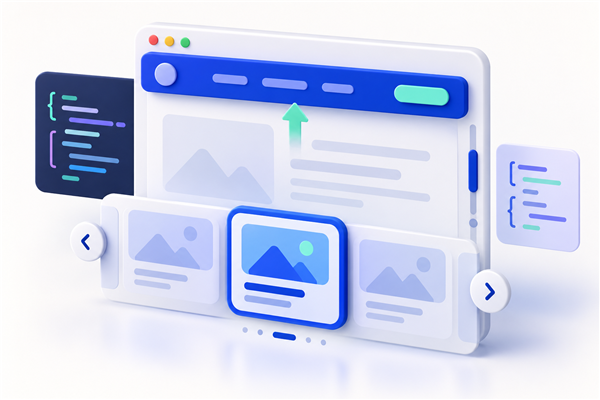
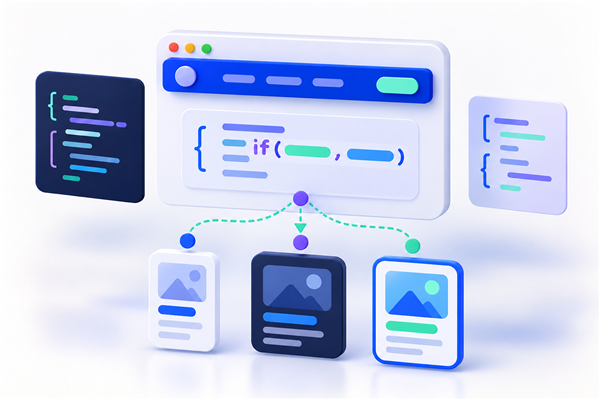
10월 뉴스레터 업데이트: 이미지 링크 수정 및 SVG 파일 교체

diff --git a/html/newsletter/010-mail.html b/html/newsletter/010-mail.html
@@ -34,7 +34,7 @@
                     <!-- 헤더 배너 -->
                     <tr>
                         <td align="left" style="padding:18px 0 12px;">
-                            <img src="../../resources/image/newsletter/logo-transparent.png"
+                            <img src="https://wtnflhyodwsemszwhjrs.supabase.co/storage/v1/object/public/images/logo-transparent.png"
                                 width="520" alt="Code Insight"
                                 style="display:block; width:100%; max-width:520px; height:auto; border:0; outline:none; text-decoration:none;" />
                         </td>
@@ -58,7 +58,7 @@
                                     <td style="padding:0 0 24px;">
                                         <p style="margin:0; font-size:14px; line-height:1.6; color:#222;">
                                             상태를 감지하고, 요소의 위치를 계산하고, 스크롤에 맞춰 애니메이션을 재생하던 코드가 점점 CSS로 옮겨가고 있습니다.<br />
-                                            이번 달에는 JavaScript 의존도를 줄여 주는 CSS 기능 9가지를 실무 활용 관점에서 살펴봅니다.
+                                            이번 달에는 JavaScript 의존도를 줄여 주는 CSS 기능 8가지를 실무 활용 관점에서 살펴봅니다.
                                         </p>
                                     </td>
                                 </tr>
@@ -75,8 +75,8 @@
                                             target="_blank" rel="noopener noreferrer"
                                             style="display:block; margin:0 0 10px;">
 
-                                            <img src="../../resources/image/newsletter/10/001.png" width="200"
-                                                alt=":has() 선택자로 자식 상태에 반응하는 카드"
+                                            <img src="https://wtnflhyodwsemszwhjrs.supabase.co/storage/v1/object/public/images/2026/10/001.png"
+                                                width="200" alt=":has() 선택자로 자식 상태에 반응하는 카드"
                                                 style="display:block; width:100%; height:auto; border:0; border-radius:6px;" />
                                         </a>
                                         <div
@@ -85,8 +85,8 @@
                                         <h3 style="margin:0 0 8px; font-size:14px; line-height:1.5; font-weight:700;">
                                             <a href="https://developer.mozilla.org/en-US/docs/Web/CSS/Reference/Selectors/:has"
                                                 target="_blank" rel="noopener noreferrer"
-                                                style="color:#0b3cc1; text-decoration:underline;">부모 찾기와 상태 반영은
-                                                :has()</a>
+                                                style="color:#0b3cc1; text-decoration:underline;">자식 상태에 따른 부모 스타일링은
+                                                :has()로</a>
                                         </h3>
                                         <p style="margin:0; font-size:13px; line-height:1.7; color:#444;">자식 요소의 상태에 따라
                                             부모나 앞선 형제를
@@ -97,8 +97,8 @@
                                         <a href="https://developer.mozilla.org/en-US/docs/Web/CSS/Guides/Containment/Container_queries"
                                             target="_blank" rel="noopener noreferrer"
                                             style="display:block; margin:0 0 10px;">
-                                            <img src="../../resources/image/newsletter/10/002.png" width="200"
-                                                alt="컨테이너 크기에 따라 변하는 반응형 카드"
+                                            <img src="https://wtnflhyodwsemszwhjrs.supabase.co/storage/v1/object/public/images/2026/10/002.png"
+                                                width="200" alt="컨테이너 크기에 따라 변하는 반응형 카드"
                                                 style="display:block; width:100%; height:auto; border:0; border-radius:6px;" />
                                         </a>
                                         <div
@@ -118,8 +118,8 @@
                                         <a href="https://developer.mozilla.org/en-US/docs/Web/CSS/Guides/Anchor_positioning/Using"
                                             target="_blank" rel="noopener noreferrer"
                                             style="display:block; margin:0 0 10px;">
-                                            <img src="../../resources/image/newsletter/10/004.png" width="200"
-                                                alt="버튼을 기준으로 배치된 여러 팝오버"
+                                            <img src="https://wtnflhyodwsemszwhjrs.supabase.co/storage/v1/object/public/images/2026/10/004.png"
+                                                width="200" alt="버튼을 기준으로 배치된 여러 팝오버"
                                                 style="display:block; width:100%; height:auto; border:0; border-radius:6px;" />
                                         </a>
                                         <div
@@ -140,8 +140,8 @@
                                         <a href="https://developer.mozilla.org/en-US/docs/Web/CSS/Guides/Scroll-driven_animations"
                                             target="_blank" rel="noopener noreferrer"
                                             style="display:block; margin:0 0 10px;">
-                                            <img src="../../resources/image/newsletter/10/005.png" width="200"
-                                                alt="스크롤 진행률과 연결된 애니메이션"
+                                            <img src="https://wtnflhyodwsemszwhjrs.supabase.co/storage/v1/object/public/images/2026/10/005.png"
+                                                width="200" alt="스크롤 진행률과 연결된 애니메이션"
                                                 style="display:block; width:100%; height:auto; border:0; border-radius:6px;" />
                                         </a>
                                         <div
@@ -166,33 +166,32 @@
                                 <tr>
                                     <td valign="top" width="25%"
                                         style="padding:0 10px 28px 0; overflow-wrap:break-word;">
-                                        <a href="https://developer.chrome.com/blog/css-scroll-state-queries"
-                                            target="_blank" rel="noopener noreferrer"
-                                            style="display:block; margin:0 0 10px;">
-                                            <img src="../../resources/image/newsletter/10/006.png" width="200"
-                                                alt="고정 헤더와 스냅된 캐러셀 카드"
+                                        <a href="https://developer.chrome.com/blog/if-article" target="_blank"
+                                            rel="noopener noreferrer" style="display:block; margin:0 0 10px;">
+                                            <img src="https://wtnflhyodwsemszwhjrs.supabase.co/storage/v1/object/public/images/2026/10/006.png"
+                                                width="200" alt="조건에 따라 세 가지 스타일 결과로 나뉘는 카드"
                                                 style="display:block; width:100%; height:auto; border:0; border-radius:6px;" />
                                         </a>
                                         <div
                                             style="font-size:10px; line-height:1.5; letter-spacing:0.3px; color:#555; margin:0 0 6px;">
-                                            SCROLL-STATE QUERY · 지원 확인</div>
+                                            CSS IF() · CHROME 137+</div>
                                         <h3 style="margin:0 0 8px; font-size:14px; line-height:1.5; font-weight:700;">
-                                            <a href="https://developer.chrome.com/blog/css-scroll-state-queries"
-                                                target="_blank" rel="noopener noreferrer"
-                                                style="color:#0b3cc1; text-decoration:underline;">sticky 상태와 스냅 위치
-                                                감지하기</a>
+                                            <a href="https://developer.chrome.com/blog/if-article" target="_blank"
+                                                rel="noopener noreferrer"
+                                                style="color:#0b3cc1; text-decoration:underline;">조건에 따른 스타일 값을
+                                                CSS 안에서 선택하기</a>
                                         </h3>
                                         <p style="margin:0; font-size:13px; line-height:1.7; color:#444;">
-                                            IntersectionObserver나 스크롤 위치 비교 없이
-                                            붙어 있는 헤더와 스냅된 항목을 선택합니다. 캐러셀의 현재 카드나 고정 헤더의 그림자를 CSS만으로 표현할 수 있습니다.</p>
+                                            CSS if()로 미디어 조건·기능 지원 여부·스타일 조건에 따라 속성 값을 선택합니다.
+                                            조건별 클래스를 JavaScript로 붙이거나 동일한 선언을 여러 규칙으로 나누는 코드를 줄일 수 있습니다.</p>
                                     </td>
                                     <td valign="top" width="25%"
                                         style="padding:0 10px 28px 0; overflow-wrap:break-word;">
                                         <a href="https://developer.mozilla.org/en-US/docs/Web/CSS/Reference/At-rules/%40starting-style"
                                             target="_blank" rel="noopener noreferrer"
                                             style="display:block; margin:0 0 10px;">
-                                            <img src="../../resources/image/newsletter/10/007.png" width="200"
-                                                alt="숨김 상태에서 나타나는 대화상자 전환"
+                                            <img src="https://wtnflhyodwsemszwhjrs.supabase.co/storage/v1/object/public/images/2026/10/007.png"
+                                                width="200" alt="숨김 상태에서 나타나는 대화상자 전환"
                                                 style="display:block; width:100%; height:auto; border:0; border-radius:6px;" />
                                         </a>
                                         <div
@@ -206,38 +205,39 @@
                                         </h3>
                                         <p style="margin:0; font-size:13px; line-height:1.7; color:#444;">
                                             @starting-style과
-                                            transition-behavior: allow-discrete를 조합해 팝오버와 dialog의 등장·퇴장 효과를 만듭니다. 애니메이션용
+                                            transition-behavior: allow-discrete를 조합해 팝오버와 &lt;dialog&gt;의 등장·퇴장 효과를 만듭니다. 애니메이션용
                                             클래스를 넣고 빼는 코드를 줄여 줍니다.</p>
                                     </td>
                                     <td valign="top" width="25%"
                                         style="padding:0 10px 28px 0; overflow-wrap:break-word;">
-                                        <a href="https://developer.chrome.com/docs/css-ui/animate-to-height-auto"
+                                        <a href="https://developer.mozilla.org/en-US/docs/Web/CSS/Reference/Properties/field-sizing"
                                             target="_blank" rel="noopener noreferrer"
                                             style="display:block; margin:0 0 10px;">
-                                            <img src="../../resources/image/newsletter/10/008.png" width="200"
-                                                alt="콘텐츠 높이에 맞춰 펼쳐지는 아코디언"
+                                            <img src="https://wtnflhyodwsemszwhjrs.supabase.co/storage/v1/object/public/images/2026/10/008.png"
+                                                width="200" alt="입력 내용에 맞춰 크기가 달라지는 입력 필드와 텍스트 영역"
                                                 style="display:block; width:100%; height:auto; border:0; border-radius:6px;" />
                                         </a>
                                         <div
                                             style="font-size:10px; line-height:1.5; letter-spacing:0.3px; color:#555; margin:0 0 6px;">
-                                            INTERPOLATE-SIZE · 지원 확인</div>
+                                            FIELD-SIZING · BASELINE 2026</div>
                                         <h3 style="margin:0 0 8px; font-size:14px; line-height:1.5; font-weight:700;">
-                                            <a href="https://developer.chrome.com/docs/css-ui/animate-to-height-auto"
+                                            <a href="https://developer.mozilla.org/en-US/docs/Web/CSS/Reference/Properties/field-sizing"
                                                 target="_blank" rel="noopener noreferrer"
-                                                style="color:#0b3cc1; text-decoration:underline;">height: auto 전환도
-                                                CSS로</a>
+                                                style="color:#0b3cc1; text-decoration:underline;">입력 내용에 맞춰 자동으로
+                                                커지는 폼 필드</a>
                                         </h3>
-                                        <p style="margin:0; font-size:13px; line-height:1.7; color:#444;">콘텐츠 높이를 측정해 픽셀
-                                            값으로 넣는 대신
-                                            interpolate-size: allow-keywords 또는 calc-size()로 auto 크기를 전환합니다. 아코디언과 펼침
-                                            패널에 활용해 보세요.</p>
+                                        <p style="margin:0; font-size:13px; line-height:1.7; color:#444;">textarea의
+                                            scrollHeight를
+                                            측정하지 않아도
+                                            field-sizing: content로 입력 내용에 맞춰 폼 필드 크기를 조절합니다. min-width와 max-width로
+                                            크기 범위도 제한할 수 있습니다.</p>
                                     </td>
                                     <td valign="top" width="25%"
                                         style="padding:0 10px 28px 0; overflow-wrap:break-word;">
                                         <a href="https://developer.chrome.com/blog/carousels-with-css" target="_blank"
                                             rel="noopener noreferrer" style="display:block; margin:0 0 10px;">
-                                            <img src="../../resources/image/newsletter/10/009.png" width="200"
-                                                alt="탐색 버튼과 인디케이터가 있는 CSS 캐러셀"
+                                            <img src="https://wtnflhyodwsemszwhjrs.supabase.co/storage/v1/object/public/images/2026/10/009.png"
+                                                width="200" alt="탐색 버튼과 인디케이터가 있는 CSS 캐러셀"
                                                 style="display:block; width:100%; height:auto; border:0; border-radius:6px;" />
                                         </a>
                                         <div
@@ -285,19 +285,6 @@
                                             <tr>
                                                 <td style="padding:16px 0 0;">
                                                     <h3 style="margin:0 0 4px; font-size:14px; font-weight:700;">
-                                                        <a href="https://chrome.dev/view-transitions-toolkit/"
-                                                            target="_blank" rel="noopener noreferrer"
-                                                            style="color:#0b3cc1; text-decoration:underline;">View
-                                                            Transitions Toolkit</a>
-                                                    </h3>
-                                                    <p style="margin:0; font-size:13px; color:#444;">
-                                                        View Transition 적용을 단순화하는 유틸리티와 예제를 모아 화면 전환 구현을 돕는 도구 모음
-                                                    </p>
-                                                </td>
-                                            </tr>
-                                            <tr>
-                                                <td style="padding:16px 0 0;">
-                                                    <h3 style="margin:0 0 4px; font-size:14px; font-weight:700;">
                                                         <a href="https://calendarjs.com/" target="_blank"
                                                             rel="noopener noreferrer"
                                                             style="color:#0b3cc1; text-decoration:underline;">CalendarJS</a>
@@ -328,7 +315,7 @@
                                                             Hotkeys</a>
                                                     </h3>
                                                     <p style="margin:0; font-size:13px; color:#444;">
-                                                        키 조합과 연속 입력, 키 상태 추적, 단축키 기록을 지원하며 React 등과 연결할 수 있는 타입 안전 단축키
+                                                        키 조합과 연속 입력, 키 상태 추적, 단축키 기록을 지원하며 React 등과 연결할 수 있는 타입 안전성을 갖춘 단축키
                                                         라이브러리
                                                     </p>
                                                 </td>
@@ -399,7 +386,8 @@
                                                         style="margin:0 0 5px; font-size:14px; line-height:1.5; font-weight:700;">
                                                         <a href="https://codepen.io/t_afif/pen/JoKYwXO" target="_blank"
                                                             rel="noopener noreferrer"
-                                                            style="color:#0b3cc1; text-decoration:underline;">CSS-only Mario World
+                                                            style="color:#0b3cc1; text-decoration:underline;">CSS-only
+                                                            Mario World
                                                         </a>
                                                     </h3>
                                                     <p style="margin:0; font-size:13px; line-height:1.7; color:#444;">
@@ -454,7 +442,7 @@
                                             width="100%" style="border-collapse:collapse;">
                                             <tr>
                                                 <td valign="top" style="width:35px; padding-right:12px;">
-                                                    <img src="../../resources/image/newsletter/logo-react.png"
+                                                    <img src="https://wtnflhyodwsemszwhjrs.supabase.co/storage/v1/object/public/images/logo-react.png"
                                                         alt="React"
                                                         style="display:block; width:35px; height:auto; border:0;" />
                                                 </td>
@@ -463,7 +451,7 @@
                                                         style="margin:0 0 4px; font-size:14px; font-weight:700; color:#222;">
                                                         React 코드 추천</p>
                                                     <p style="margin:0; font-size:12px; line-height:1.6; color:#555;">
-                                                        화면 전환과 폼처럼 퍼블리싱 작업에 바로 연결되는 React 구현을 골랐습니다.
+                                                        화면 전환과 폼 등 퍼블리싱 작업에 바로 연결되는 React 구현을 골랐습니다.
                                                     </p>
                                                 </td>
                                             </tr>
@@ -484,7 +472,7 @@
                                                     <p style="margin:0; font-size:13px; line-height:1.7; color:#444;">
                                                         컴포넌트의 등장·퇴장·업데이트를 브라우저 View Transition과 연결합니다. React가 전환 시점과 이름을
                                                         조율하므로,
-                                                        페이지 이동이나 목록 변화에 CSS 전환 클래스를 적용하는 구조를 단순하게 만들 수 있습니다.
+                                                        페이지 이동이나 목록 변화에 CSS 전환 스타일을 구성하는 구조를 단순하게 만들 수 있습니다.
                                                     </p>
                                                 </td>
                                             </tr>
@@ -577,14 +565,16 @@
                                         <div style="font-size:13px; line-height:1.7; color:#333;">
                                             <p style="margin:0 0 18px;">
                                                 이번에는 SVG 작업에 활용할 수 있는 도구와 자료를 소개하려고 합니다.
-                                                SVG는 아이콘이나 로고에 자주 사용하는 이미지 형식이지만, 글자가 타이핑되거나 손으로 그린 선이
-                                                움직이는 효과도 표현할 수 있습니다. 작은 기능 하나를 편리하게 만들어 공개한 도구들을 보면,
-                                                평소 직접 구현하기에는 조금 번거로웠던 작업을 줄이는 데 도움이 되겠다는 생각이 듭니다.
+                                                SVG는 아이콘이나 로고에 자주 사용하는 벡터 이미지 형식이지만, 글자가 타이핑되거나 손으로 그린 선이
+                                                움직이는 효과도 표현할 수 있습니다. 번거로운 작업을 간단하게 만들어 주는 공개 도구들은
+                                                직접 구현해야 할 작업을 줄이는 데 도움이 됩니다.
                                             </p>
 
-                                            <h4 style="margin:0 0 8px; font-size:14px; font-weight:700; color:#222;">텍스트를 입력하면 타이핑 애니메이션으로</h4>
+                                            <h4 style="margin:0 0 8px; font-size:14px; font-weight:700; color:#222;">
+                                                텍스트를 입력하면 타이핑 애니메이션으로</h4>
                                             <p style="margin:0 0 12px;">
-                                                <a href="https://typingsvg.vercel.app/" target="_blank" rel="noopener noreferrer"
+                                                <a href="https://typingsvg.vercel.app/" target="_blank"
+                                                    rel="noopener noreferrer"
                                                     style="color:#0b3cc1; text-decoration:underline;">TypingSVG</a>는
                                                 텍스트와 옵션을 입력하면 타이핑 애니메이션이 들어간 SVG를 만들어 주는 도구입니다.
                                                 여러 줄의 문장, 커서 모양, 글자가 지워지는 속도 등을 조절할 수 있어 소개 문구에 움직임을 더할 때 참고하기 좋습니다.
@@ -592,15 +582,18 @@
                                             <p style="margin:0 0 18px;">
                                                 이렇게 SVG 자체에 포함된 애니메이션은 웹페이지에서 <code>&lt;img&gt;</code>로 불러와도 표현할 수 있습니다.
                                                 타이핑 효과를 위해 페이지에 별도의 스크립트를 작성하지 않아도 된다는 점이 편리합니다.
-                                                다만 외부 생성 주소를 그대로 사용할지, 파일로 저장해 프로젝트에서 관리할지는 구분해서 생각해야 합니다.
+                                                다만 생성된 외부 URL을 그대로 사용할지, 파일로 저장해 프로젝트에서 관리할지는 구분해서 생각해야 합니다.
                                             </p>
 
-                                            <h4 style="margin:0 0 8px; font-size:14px; font-weight:700; color:#222;">손으로 그린 선과 낙서를 화면의 요소로</h4>
+                                            <h4 style="margin:0 0 8px; font-size:14px; font-weight:700; color:#222;">손으로
+                                                그린 선과 낙서를 화면의 요소로</h4>
                                             <p style="margin:0 0 12px;">
                                                 <a href="https://go.sparkpostmail2.com/f/a/NxoK8u_zzXtPg8oURe7-DQ~~/AABEfhA~/dQdxusMK-pLk-8McvhHW5bcOziPo4zc89mDAzQPrZloxeIfOFWEA1eva4N7rvnnuLRDuu80yUwpkRYecRaDcb0arkkSdJ56GoMMzqaK3X8k~"
-                                                    target="_blank" rel="noopener noreferrer" style="color:#0b3cc1; text-decoration:underline;">Strokes</a>는
+                                                    target="_blank" rel="noopener noreferrer"
+                                                    style="color:#0b3cc1; text-decoration:underline;">Strokes</a>는
                                                 직접 그린 선을 애니메이션으로 바꿔 주는 도구입니다. 서명이나 손글씨가 그려지는 듯한 효과를 떠올리면 이해하기 쉽습니다.
-                                                소개된 애니메이션 출력 방식은 React와 Motion을 사용하는 컴포넌트이므로, SVG 파일 하나를 넣는 방식과는 준비 과정이 다릅니다.
+                                                소개된 애니메이션 출력 방식은 React와 Motion을 사용하는 컴포넌트이므로, SVG 파일 하나를 넣는 방식과는 준비 과정이
+                                                다릅니다.
                                             </p>
                                             <p style="margin:0 0 12px;">
                                                 React와 Motion을 이미 사용하는 프로젝트라면 활용하기 수월하겠지만, 간단한 HTML 화면이라면
@@ -609,13 +602,16 @@
                                             </p>
                                             <p style="margin:0 0 18px;">
                                                 직접 그리는 대신 준비된 요소를 활용하고 싶다면
-                                                <a href="https://svgdoodles.com/" target="_blank" rel="noopener noreferrer"
-                                                    style="color:#0b3cc1; text-decoration:underline;">SVG Doodles</a>도 살펴볼 만합니다.
+                                                <a href="https://svgdoodles.com/" target="_blank"
+                                                    rel="noopener noreferrer"
+                                                    style="color:#0b3cc1; text-decoration:underline;">SVG Doodles</a>도
+                                                살펴볼 만합니다.
                                                 손으로 그린 느낌의 SVG를 골라 디자인에 활용할 수 있는 모음입니다.
                                                 화면에 작은 포인트를 더할 때 유용하겠지만, 기존 아이콘이나 글꼴과 자연스럽게 어울리는지도 함께 보는 것이 좋겠습니다.
                                             </p>
 
-                                            <h4 style="margin:0 0 8px; font-size:14px; font-weight:700; color:#222;">같은 SVG라도 넣는 방식에 따라 달라집니다</h4>
+                                            <h4 style="margin:0 0 8px; font-size:14px; font-weight:700; color:#222;">같은
+                                                SVG라도 넣는 방식에 따라 달라집니다</h4>
                                             <p style="margin:0 0 12px;">
                                                 SVG는 이미지 파일로 불러올 수도 있고, HTML 안에 코드를 직접 넣거나 CSS의
                                                 <code>background-image</code>에 데이터 URL로 넣을 수도 있습니다.
@@ -628,14 +624,19 @@
                                                 대체 텍스트를 제공하고, 단순한 배경 장식이라면 본문을 읽는 데 방해가 되지 않도록 구성하는 식입니다.
                                                 관련 내용은 David Bushell의
                                                 <a href="https://go.sparkpostmail2.com/f/a/pp9Hl0wt_73q5M9Nd3Wifg~~/AABEfhA~/0Q9VR59V6Pb4We3hk-039X2rtR9GSQYyWW0_VMkCUHiC5stC9_spDySQjYhPrtwzC1o7Wl2e6Y1mgt6rakF7aMxp2PX8kNK-TlL5ZmqExLhJNhWn-9rxRYZ8dxbA1Ua4lOIMZ3ticgIYewZDRLN34J8EAtOpL_jbPXyXniz8tQM~"
-                                                    target="_blank" rel="noopener noreferrer" style="color:#0b3cc1; text-decoration:underline;">SVG 최적화와 접근성 기초</a>를
+                                                    target="_blank" rel="noopener noreferrer"
+                                                    style="color:#0b3cc1; text-decoration:underline;">SVG 최적화와 접근성
+                                                    기초</a>를
                                                 참고해 보세요. CSS로 도형을 표현하는 방법이 궁금하다면 함께 소개된
                                                 <a href="https://go.sparkpostmail2.com/f/a/4QINdUoMuGBZvn9LZXk8Cw~~/AABEfhA~/VmReFfkjR0n6PRjfm7xCVAqDFXYoNbi2e57x1vYckdacPAtwsij8T8iP1Ck_FTiOAJ78bslX3lkPyUfbyDdVGFYSgD5rXmxNyDGELi8C74pgzCDK-sSNPEigE-whjxSdC51rmIt85DG5-X9feYrVMcbMDSj4cWjeDmK8mkNhpccF9gcVMBD-gApcp6p_pf5b"
-                                                    target="_blank" rel="noopener noreferrer" style="color:#0b3cc1; text-decoration:underline;"><code>shape()</code> 가이드</a>도
+                                                    target="_blank" rel="noopener noreferrer"
+                                                    style="color:#0b3cc1; text-decoration:underline;"><code>shape()</code>
+                                                    가이드</a>도
                                                 이어서 읽어볼 만합니다.
                                             </p>
 
-                                            <h4 style="margin:0 0 8px; font-size:14px; font-weight:700; color:#222;">반복해서 사용하는 SVG를 관리하는 방법</h4>
+                                            <h4 style="margin:0 0 8px; font-size:14px; font-weight:700; color:#222;">
+                                                반복해서 사용하는 SVG를 관리하는 방법</h4>
                                             <p style="margin:0 0 12px;">
                                                 같은 아이콘을 여러 곳에 넣는다면 SVG의 <code>&lt;use&gt;</code> 요소를 활용하는 방법도 있습니다.
                                                 도형을 정의해 두고 필요한 위치에서 참조하는 방식입니다. 다만 스타일을 전달하는 방법이나
@@ -644,7 +645,8 @@
                                             <p style="margin:0 0 18px;">
                                                 Fotis Papadogeorgopoulos의
                                                 <a href="https://go.sparkpostmail2.com/f/a/2m7iIbz2clJ1Fw0WtA6LIg~~/AABEfhA~/_gmS4A3OKaqPfTRNEl8mIYjzFFa_T5R58i6OWoQYDwyuqO59HxvKr08FCbOTRKeSVImR9pqkb7Sgxbcq6TXKsnb7qvHfVHyb5ZFepCRiiqySKaIYsvrJWISbc_4ZV2IA"
-                                                    target="_blank" rel="noopener noreferrer" style="color:#0b3cc1; text-decoration:underline;"><code>@svg-use</code></a>는
+                                                    target="_blank" rel="noopener noreferrer"
+                                                    style="color:#0b3cc1; text-decoration:underline;"><code>@svg-use</code></a>는
                                                 이와 관련해 살펴볼 수 있는 JavaScript 기반 도구입니다.
                                                 도입을 검토한다면 필요한 스타일 변경이 가능한지, SVG 파일을 어디서 불러오는지,
                                                 기존 아이콘 컴포넌트와 함께 관리할 수 있는지부터 확인하면 좋겠습니다.
